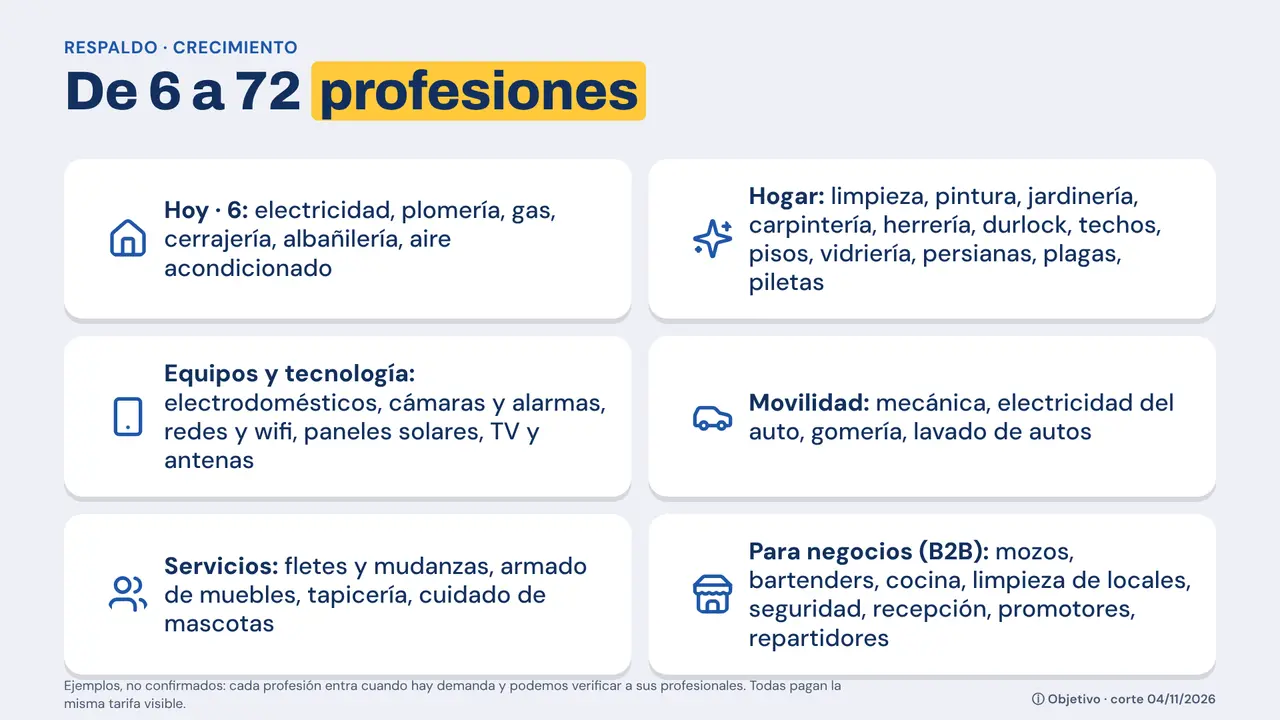
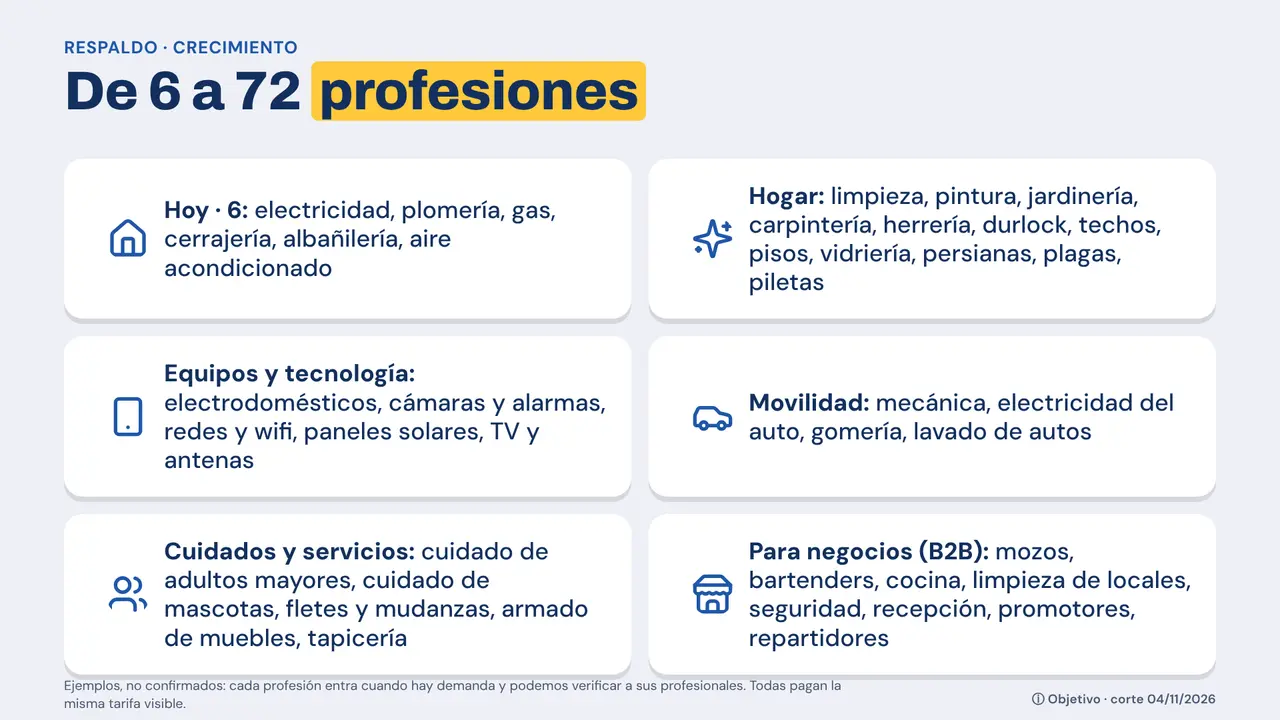
Video del pitch: cámara en círculo y documentación de la grabación en vivo
- componer3: la cámara pasa a un círculo con aro amarillo en la columna derecha (no tapa
  la lámina ni los subtítulos) y se funde al empezar el final.
- Capturas del respaldo actualizadas (profesiones, títulos, colores).

Claude-Session: https://claude.ai/code/session_01QGDMaQ7dcXpVtFC21gPk7N

Changed region(s): [[0.125, 0.7333, 0.4688, 0.9167]]

diff --git a/scripts/video-pitch/montaje/camara-aro.html b/scripts/video-pitch/montaje/camara-aro.html
@@ -1,0 +1,3 @@
+<!doctype html><html><head><meta charset="utf-8"><style>html,body{margin:0;background:transparent;width:396px;height:396px}
+.aro{position:absolute;left:40px;top:40px;width:316px;height:316px;box-sizing:border-box;border-radius:50%;border:8px solid #FFC93C;box-shadow:0 18px 40px rgba(0,0,0,.38),0 0 0 3px rgba(14,29,54,.35)}</style></head>
+<body><div class="aro"></div></body></html>

diff --git a/scripts/video-pitch/montaje/componer3.py b/scripts/video-pitch/montaje/componer3.py
@@ -1,14 +1,16 @@
 import subprocess, sys
 S='/tmp/claude-0/-home-user/10ab011c-6752-54be-831e-b3c4da2461d0/scratchpad'
 E=f'{S}/edicion'; ORIG=f'{S}/video/original.mp4'
-INTRO=5.3; FIN_CAM=183.4; MUS=0.094; CW,CH=304,540; CX,CY=1576,110+(846-540)//2; FX=343; HABLA=199.52; TOT=202.0
+# Cámara en un círculo (D) en la columna derecha; se funde al empezar el final (FIN_CAM).
+INTRO=5.3; FIN_CAM=183.4; MUS=0.094; D=300; CX,CY=1582,322; RECORTE='600:600:210:100'; HABLA=199.52; TOT=202.0
 X264=['-c:v','libx264','-preset','medium','-crf','19','-pix_fmt','yuv420p','-threads','4']
 def run(c): print(' '.join(c[:4]),'…',flush=True); subprocess.run(['ffmpeg','-v','error','-y',*c],check=True)
 etapa=sys.argv[1]
 if etapa=='pitch':
     f=[f'[0:v]format=yuv420p[base]',
-       f'[1:v]crop=405:720:{FX}:0,scale={CW}:{CH},format=yuva420p[cam0]',f'[2:v]scale={CW}:{CH},format=gray[m]',f'[cam0][m]alphamerge,fade=t=out:st={FIN_CAM-0.5}:d=0.5:alpha=1[cam]',
-       f"[base][cam]overlay={CX}:{CY}:eof_action=pass:enable='lt(t,{FIN_CAM})'[b2]",
+       f'[1:v]crop={RECORTE},scale={D}:{D},format=yuva420p[cam0]',f'[2:v]scale={D}:{D},format=gray[m]',f'[cam0][m]alphamerge,fade=t=out:st={FIN_CAM-0.5}:d=0.5:alpha=1[cam]',
+       f'[6:v]format=yuva420p,fade=t=out:st={FIN_CAM-0.5}:d=0.5:alpha=1[aro]',
+       f"[base][aro]overlay={CX-48}:{CY-48}:eof_action=pass:enable='lt(t,{FIN_CAM})'[b1]",f"[b1][cam]overlay={CX}:{CY}:eof_action=pass:enable='lt(t,{FIN_CAM})'[b2]",
        f'[1:v]trim=0:{INTRO},setpts=PTS-STARTPTS,scale=1920:1080,format=yuva420p,fade=t=out:st={INTRO-0.5}:d=0.5:alpha=1[full]',
        '[b2][full]overlay=0:0:eof_action=pass[b3]',
        f"[3:v]format=yuva420p,fade=t=in:st=0.6:d=0.4:alpha=1,fade=t=out:st={INTRO-0.9}:d=0.4:alpha=1[zoc]",
@@ -17,8 +19,8 @@ if etapa=='pitch':
        f'[1:a]aresample=48000,aformat=channel_layouts=stereo,apad=whole_dur={TOT},asplit=2[voz][vozk]','[4:a]volume=0.32[sfx]',
        f'[5:a]aresample=48000,volume={MUS}[mus0]','[mus0][vozk]sidechaincompress=threshold=0.02:ratio=4:attack=15:release=350:knee=3[mus]',
        '[voz][sfx][mus]amix=inputs=3:duration=first:normalize=0,loudnorm=I=-16:TP=-1.5:LRA=11,aresample=48000[a]']
-    run(['-framerate','30','-i',f'{S}/frames-p/f%05d.jpg','-i',ORIG,'-loop','1','-framerate','30','-t','1','-i',f'{E}/mascara.png',
-         '-loop','1','-framerate','30','-t',str(INTRO),'-i',f'{E}/zocalo.png','-i',f'{S}/montaje/sfx-final.wav','-i',f'{S}/musica/musica-pitch.wav',
+    run(['-framerate','30','-i',f'{S}/frames-p/f%05d.jpg','-i',ORIG,'-loop','1','-framerate','30','-t','1','-i',f'{E}/mascara-circulo.png',
+         '-loop','1','-framerate','30','-t',str(INTRO),'-i',f'{E}/zocalo.png','-i',f'{S}/montaje/sfx-final.wav','-i',f'{S}/musica/musica-pitch.wav','-loop','1','-framerate','30','-t',str(TOT),'-i',f'{E}/aro.png',
          '-filter_complex',';'.join(f),'-map','[v]','-map','[a]','-t',str(TOT),'-r','30',*X264,'-c:a','aac','-b:a','192k','-ar','48000',f'{S}/montaje/pitch.mp4'])
 if etapa=='preguntas':
     run(['-framerate','30','-i',f'{S}/frames-q/f%05d.jpg','-i',f'{S}/montaje-q/audio-q.wav','-map','0:v','-map','1:a','-shortest','-r','30',*X264,'-c:a','aac','-b:a','192k','-ar','48000',f'{S}/montaje-q/preguntas.mp4'])

diff --git a/scripts/video-pitch/montaje/plan_pitch.py b/scripts/video-pitch/montaje/plan_pitch.py
@@ -34,7 +34,7 @@ st=[(6.6,'La odisea','reloj2'),(15.6,'Profesionales buscando clientes','usuarios
     (97.3,'Trabajos · gastos · ingresos','billetera'),(106.8,'2 apps desarrolladas','celular'),(111.7,'Porteros: primeros ingresos','edificio'),
     (119.7,'259.623 hogares','casa'),(130.9,'USD 100.000 de ingresos brutos','dolar'),(145.1,'Sistema agéntico con IA','ia'),
     (154.9,'Inversión: USD 100.000','alcancia'),(167.4,'72 profesiones','objetivo'),(171.9,'Handyx for People + Business','tienda'),(177.1,'Silicon Valley','cohete')]
-stickers=[{'t':t,'dur':2.6,'text':x,'icon':i,'y':826} for t,x,i in st]  # en la columna derecha, debajo de la cámara: no tapan la lámina
+stickers=[{'t':t,'dur':2.6,'text':x,'icon':i,'y':658} for t,x,i in st]  # en la columna derecha, debajo de la cámara: no tapan la lámina
 grietas=[[[-68,-25],[-64,-29],[-60,-32],[-63,-35],[-58,-40]],[[-62,-5],[-57,-9],[-52,-6],[-47,-11],[-41,-8]],[[-78,-2],[-74,-7],[-76,-12],[-71,-17]],
  [[-12,14],[-6,10],[0,12],[6,9],[12,11]],[[18,-4],[23,-10],[21,-17],[27,-24]],[[-2,26],[6,22],[13,27],[22,23],[30,26]],
  [[-6,41],[1,45],[8,43],[15,47],[22,45]],[[-108,41],[-100,36],[-93,39],[-85,34]]]

diff --git a/scripts/video-pitch/LEEME.md b/scripts/video-pitch/LEEME.md
@@ -68,3 +68,11 @@ Subtítulos del ensayo: `subtitulos-ensayo-04-11.srt` (transcripción automátic
   `node voz-elevenlabs.mjs guion-voz.json <audio-del-clip.wav> <handia-voz.mp4> <salida.mp4>` genera cada frase (modelo multilingüe) y la
   mezcla en su segundo, con la música bajando cuando alguien habla. No se pudo probar contra la API desde esta sesión.
 
+## Láminas enteras y cámara en círculo (05/11)
+
+- `plan_pitch.py` (`COMPLETO=True`): cada lámina se ve entera, con un acercamiento suave (≤ 3,5 %) que no sale de los márgenes; las frases
+  clave van en la columna derecha, debajo de la cámara.
+- `componer3.py pitch`: la cámara es un **círculo** de 300 px (recorte 600 × 600 centrado en la cara, `RECORTE`) con un aro amarillo y
+  sombra (`camara-aro.html` → `camara-aro.cjs` lo pasa a PNG transparente), en la columna derecha; se funde al empezar el final.
+  Subtítulos en la franja de abajo, fuera de la lámina.
+

diff --git a/docs/handoff.md b/docs/handoff.md
@@ -217,4 +217,7 @@ el workflow compila con `SERVIDOR_CONTROL` y verifica que Render responda. Todo-
   comercios del barrio; entra con verificación reforzada). No se usa la foto del cartel ni sus datos (persona real). Títulos de «Cómo crece
   Handyx» y «Publicidades» separados de su etiqueta. Video: las láminas se ven **enteras** (sin el zoom que recortaba) y las frases clave
   pasan a la columna derecha, debajo de la cámara.
+- 05/11 (11) · Entregada la **grabación de la versión en vivo** (`salida/video/handyx-aticma-evento-en-vivo.mp4`, 8:46, 1080p, 33 MB):
+  pitch a sus tiempos + 30 láminas de respaldo + 20 preguntas, revisada escena por escena. Video editado: cámara en círculo en la columna
+  derecha (sin tapar la lámina) y láminas enteras.
 
